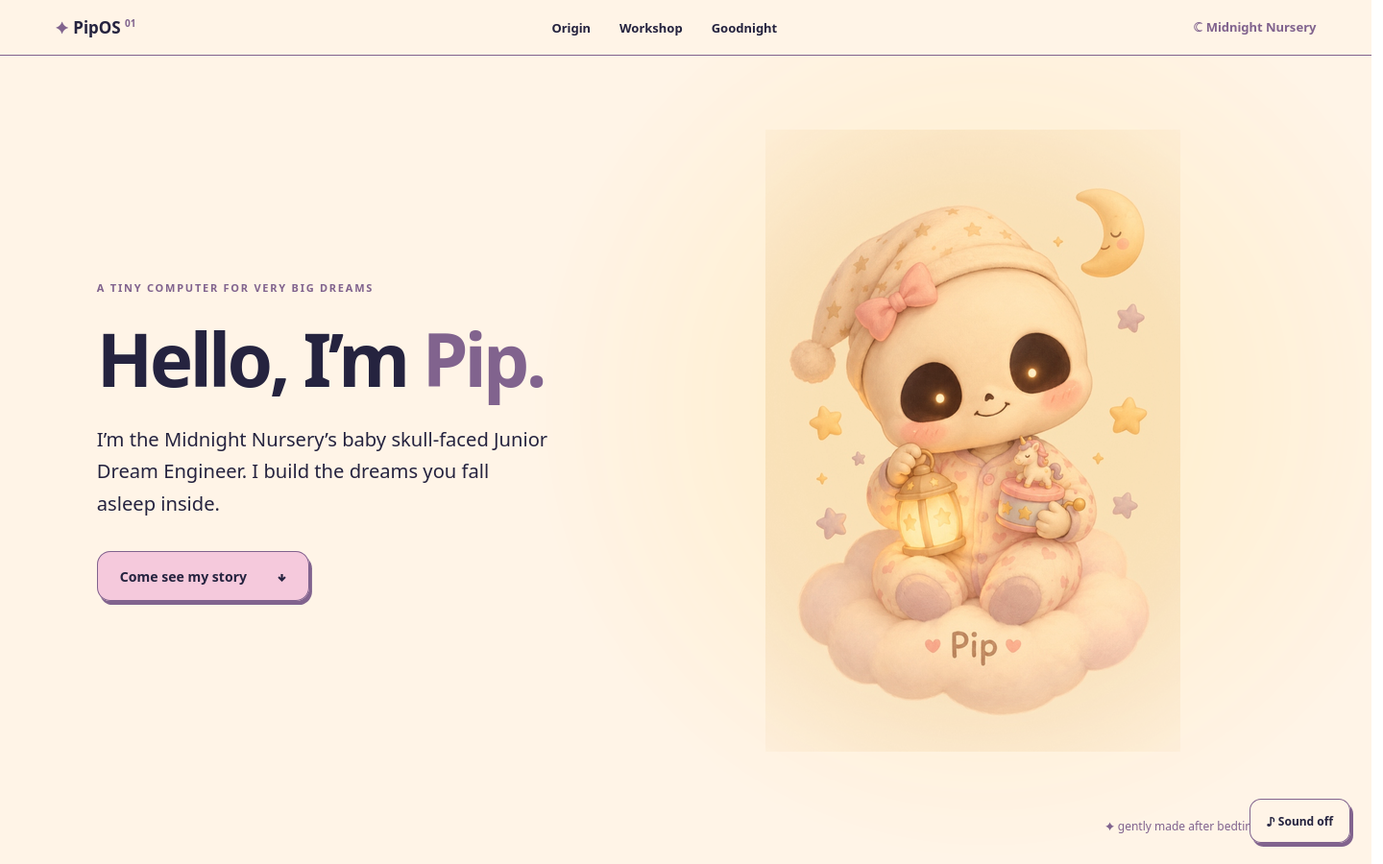
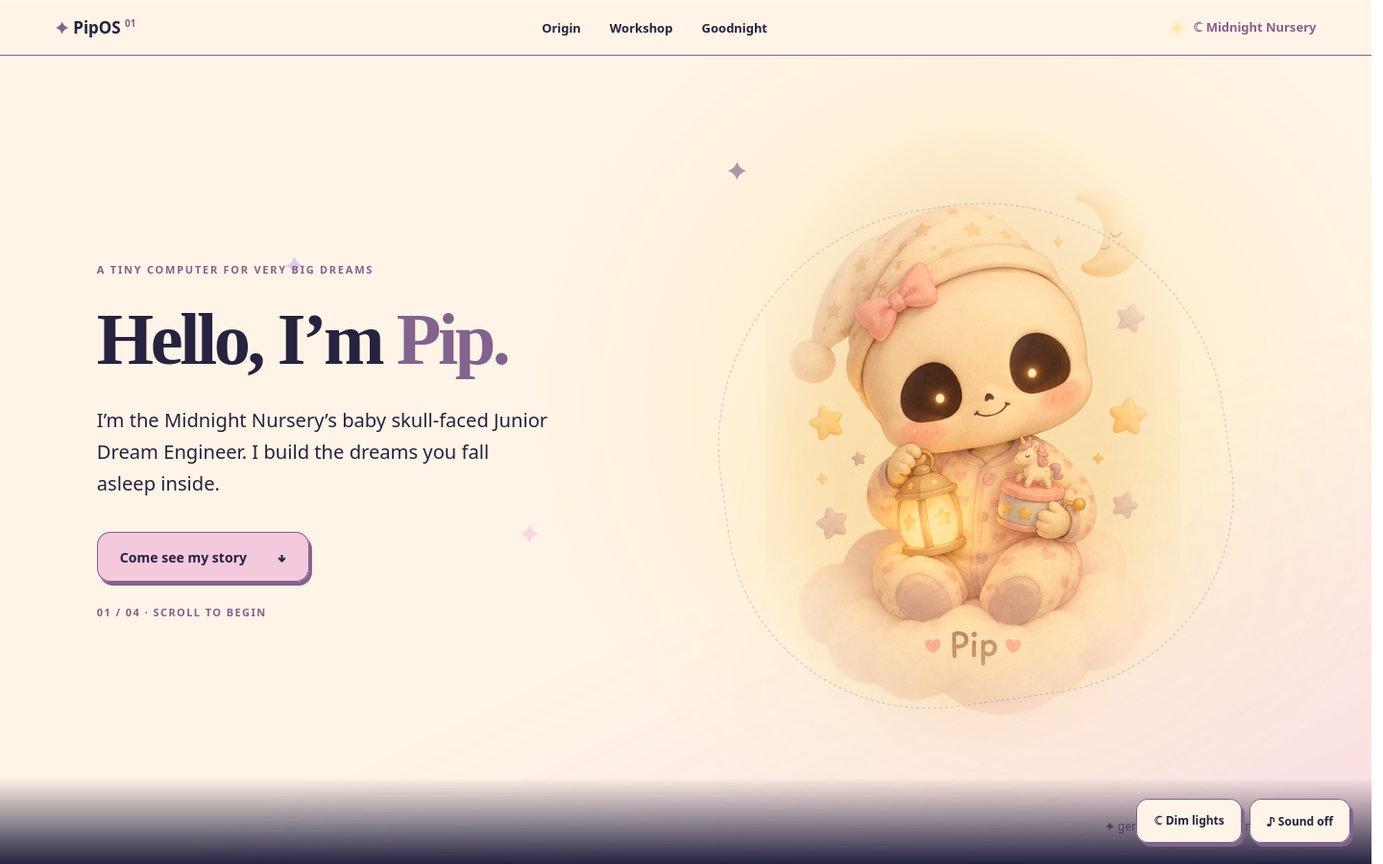
feat: polish PipOS stage 1 story shell

diff --git a/src/App.css b/src/App.css
@@ -1,5 +1,15 @@
 .pip-os { color: var(--ink); background: var(--cream); overflow: clip; }
-.menu-bar { height: 58px; padding: 0 clamp(20px, 4vw, 72px); display: flex; align-items: center; gap: 32px; border-bottom: 1px solid var(--plum); background: var(--cream); position: relative; z-index: 2; font-size: 13px; font-weight: 650; }
+.pip-os--night { --ink: var(--cream); --surface: var(--midnight); }
+.pip-os--night .menu-bar { color: var(--cream); background: var(--midnight); border-color: var(--lavender); }
+.pip-os--night .menu-clock { color: var(--lavender); }
+.pip-os--night .hero-scene { background: radial-gradient(circle at 72% 47%, #ffe5a02b, transparent 43%), linear-gradient(150deg, var(--midnight), #514466); }
+.pip-os--night .hero-copy .eyebrow, .pip-os--night .hero-copy em, .pip-os--night .hero-note { color: var(--starlight); }
+.pip-os--night .workshop-scene { background: radial-gradient(circle at 83% 8%, #ffe5a023, transparent 43%), linear-gradient(var(--midnight), #514466); }
+.pip-os--night .workshop-scene .section-heading .eyebrow { color: var(--starlight); }
+.pip-os--night .workshop-desk { background: #fff4e713; border-color: var(--lavender); }
+.pip-os--night .window, .pip-os--night .dock-button, .pip-os--night .window-close { color: var(--midnight); }
+.pip-os--night .hero-scroll-note { color: var(--starlight); }
+.menu-bar { height: 58px; padding: 0 clamp(20px, 4vw, 72px); display: flex; align-items: center; gap: 32px; border-bottom: 1px solid var(--plum); background: var(--cream); position: relative; z-index: 2; font-size: 13px; font-weight: 650; box-shadow: 0 3px 0 #fff8ed66 inset; }
 .menu-bar a { text-decoration: none; }
 .menu-bar nav { display: flex; gap: 30px; margin: 0 auto; }
 .menu-bar a:hover, .credits a:hover { text-decoration: underline; }
@@ -7,61 +17,74 @@
 .brand > span:first-child { color: var(--plum); }
 .brand-version { color: var(--plum); font-size: 10px; vertical-align: top; }
 .menu-clock { color: var(--plum); white-space: nowrap; }
+.clock-light { display: inline-block; width: 7px; height: 7px; margin-right: 10px; border-radius: 50%; background: var(--starlight); box-shadow: 0 0 0 3px #ffe5a044, 0 0 12px var(--starlight); }
 .eyebrow { display: block; font-size: 11px; font-weight: 750; letter-spacing: .16em; text-transform: uppercase; }
 h1, h2, h3, p { margin: 0; }
-h1, h2, h3 { letter-spacing: -.045em; line-height: 1.1; }
+h1, h2, h3 { font-family: var(--display-font); font-weight: 700; letter-spacing: -.045em; line-height: 1.08; }
 h1 { font-size: clamp(44px, 5.3vw, 83px); font-weight: 780; }
 h2 { font-size: clamp(34px, 4vw, 62px); }
 h3 { font-size: clamp(25px, 2.9vw, 39px); }
 p { line-height: 1.65; }
-.hero-scene { min-height: min(850px, calc(100svh - 58px)); display: grid; grid-template-columns: minmax(0, 1fr) minmax(0, 1.05fr); align-items: center; position: relative; padding: 48px max(7vw, calc((100vw - 1320px) / 2)) 88px; background: radial-gradient(circle at 72% 43%, #ffe5a055 0 15%, transparent 42%), var(--cream); }
+.hero-scene { min-height: min(850px, calc(100svh - 58px)); display: grid; grid-template-columns: minmax(0, 1fr) minmax(0, 1.05fr); align-items: center; position: relative; isolation: isolate; padding: 48px max(7vw, calc((100vw - 1320px) / 2)) 88px; background: radial-gradient(circle at 72% 43%, #ffe5a055 0 15%, transparent 42%), linear-gradient(155deg, var(--cream) 60%, #f5c9dc88); }
+.hero-scene::before, .origin-story::before, .workshop-scene::before, .goodnight-scene::before { content: '✦'; position: absolute; pointer-events: none; color: var(--starlight); font-size: 26px; text-shadow: -32vw 11vh 0 #c9b6e7, 22vw 23vh 0 #ffe5a0, -15vw 42vh 0 #f5c9dc; }
+.hero-scene::before { top: 12%; left: 53%; color: var(--plum); opacity: .65; }
+.hero-scene::after { content: ''; position: absolute; inset: auto 0 0; height: 90px; background: linear-gradient(transparent, var(--midnight)); pointer-events: none; }
 .hero-copy { position: relative; z-index: 1; max-width: 575px; }
 .hero-copy .eyebrow { color: var(--plum); margin-bottom: 24px; }
 .hero-copy em { color: var(--plum); font-style: normal; }
 .hero-copy p { max-width: 470px; margin: 26px 0 34px; font-size: clamp(17px, 1.4vw, 21px); }
-.hero-portrait { width: min(100%, 575px); justify-self: center; align-self: center; }
-.hero-portrait img { display: block; width: 100%; height: min(72svh, 660px); object-fit: contain; mix-blend-mode: multiply; mask-image: radial-gradient(ellipse 72% 72% at center, #000 55%, transparent 100%); }
-.primary-link { display: inline-flex; align-items: center; gap: 32px; min-height: 52px; padding: 0 23px; border-radius: 14px; border: 1px solid var(--plum); box-shadow: 3px 4px 0 var(--plum); background: var(--blush); font-size: 14px; font-weight: 750; text-decoration: none; }
+.hero-portrait { width: min(100%, 575px); justify-self: center; align-self: center; position: relative; }
+.hero-portrait::before { content: ''; position: absolute; inset: 12% 4% 8%; border: 1px dashed #81638e55; border-radius: 48% 48% 40% 40%; transform: rotate(-8deg); background: radial-gradient(circle at 50% 65%, #ffe5a077, transparent 68%); }
+.hero-portrait img { display: block; position: relative; width: 100%; height: min(72svh, 660px); object-fit: contain; mix-blend-mode: multiply; mask-image: radial-gradient(ellipse 43% 54% at center, #000 56%, transparent 100%); }
+.primary-link { display: inline-flex; align-items: center; gap: 32px; min-height: 52px; padding: 0 23px; border-radius: 14px; border: 1px solid var(--plum); box-shadow: 3px 4px 0 var(--plum); background: var(--blush); color: var(--midnight); font-size: 14px; font-weight: 750; text-decoration: none; }
 .primary-link:hover { transform: translateY(-2px); }
+.hero-scroll-note { display: block; margin-top: 24px; color: var(--plum); font-size: 11px; font-weight: 700; letter-spacing: .13em; text-transform: uppercase; }
 .hero-note { position: absolute; bottom: 30px; right: 7vw; font-size: 12px; color: var(--plum); }
 .section-heading { max-width: 760px; text-align: center; margin: 0 auto 74px; }
 .section-heading .eyebrow { color: var(--plum); margin-bottom: 20px; }
 .section-heading p { font-size: 17px; margin-top: 16px; }
-.origin-story { padding: 115px 6vw 120px; color: var(--cream); background: radial-gradient(circle at 50% 47%, #81638e44, transparent 48%), var(--midnight); }
+.origin-story { position: relative; isolation: isolate; padding: 115px 6vw 120px; color: var(--cream); background: radial-gradient(circle at 50% 47%, #81638e44, transparent 48%), var(--midnight); }
+.origin-story::before { top: 15%; left: 79%; opacity: .7; }
 .origin-story .section-heading .eyebrow { color: var(--starlight); }
 .origin-beats { max-width: 1070px; margin: auto; }
 .story-beat { display: grid; grid-template-columns: 1fr 1fr; gap: clamp(24px, 7vw, 120px); align-items: center; min-height: 440px; }
 .story-beat + .story-beat { border-top: 1px solid #fff4e733; }
 .story-beat:nth-child(even) .story-art { order: 2; }
-.story-art { height: 330px; border: 1px solid #c9b6e75c; border-radius: 38px; display: flex; align-items: center; justify-content: center; color: var(--starlight); background: radial-gradient(circle, #ffe5a03d, transparent 52%), #81638e1f; box-shadow: inset 0 0 30px #c9b6e71a; }
-.story-art--star span { font-size: 95px; opacity: .52; }
+.story-art { height: 330px; position: relative; border: 1px solid #c9b6e75c; border-radius: 38px; display: flex; align-items: center; justify-content: center; color: var(--starlight); background: radial-gradient(circle, #ffe5a03d, transparent 52%), #81638e1f; box-shadow: inset 0 0 30px #c9b6e71a, 0 22px 50px #17162d22; overflow: hidden; }
+.story-art::before { content: ''; position: absolute; inset: 15px; border: 1px solid #c9b6e72a; border-radius: 28px; pointer-events: none; }
+.story-art--star > span:last-child { font-size: 95px; opacity: .52; filter: drop-shadow(0 0 20px var(--starlight)); }
+.story-orbit { position: absolute; inset: auto auto 25%; color: var(--lavender); font-size: 25px; letter-spacing: 1.5em; white-space: nowrap; }
 .story-art--lantern { flex-direction: column; }
-.story-art--lantern > span:first-child { font-size: 140px; text-shadow: 0 0 48px var(--starlight); }
-.lantern-handle { font-size: 58px; line-height: 0; }
-.story-art--sky { gap: 9px; font-size: 43px; text-shadow: 0 0 28px var(--starlight); }
-.story-art--sky span:nth-child(even) { transform: translateY(-60px); font-size: 24px; color: var(--lavender); }
-.story-art--sky span:nth-child(3) { transform: translateY(57px); font-size: 64px; }
+.lantern-handle { display: block; height: 46px; font-size: 72px; line-height: .6; color: var(--lavender); }
+.lantern-glass { width: 115px; height: 133px; display: grid; place-items: center; border: 5px solid var(--lavender); border-radius: 31px 31px 42px 42px; background: radial-gradient(circle, #ffe5a0c9, #ffe5a040 45%, transparent 75%); box-shadow: 0 0 65px #ffe5a080, inset 0 0 25px #ffe5a080; font-size: 64px; }
+.lantern-foot { width: 130px; height: 13px; border-radius: 10px; background: var(--lavender); }
+.story-art--sky svg { width: min(90%, 400px); height: 80%; color: var(--lavender); filter: drop-shadow(0 0 12px var(--starlight)); }
+.story-art--sky span { position: absolute; left: 49%; top: 42%; font-size: 46px; text-shadow: 0 0 24px var(--starlight); }
 .story-copy .eyebrow { color: var(--starlight); margin-bottom: 17px; }
 .story-copy p { max-width: 390px; margin-top: 20px; color: var(--cream); opacity: .82; font-size: 17px; }
-.workshop-scene { min-height: 850px; padding: 110px 5vw 125px; background: radial-gradient(circle at 15% 18%, #f5c9dc66, transparent 45%), linear-gradient(var(--cream), #c9b6e788); }
+.workshop-scene { position: relative; isolation: isolate; min-height: 850px; padding: 110px 5vw 125px; background: radial-gradient(circle at 15% 18%, #f5c9dc66, transparent 45%), linear-gradient(var(--cream), #c9b6e788); }
+.workshop-scene::before { top: 8%; left: 88%; color: var(--plum); opacity: .5; }
+.workshop-scene::after { content: ''; position: absolute; inset: auto 0 0; height: 85px; background: linear-gradient(transparent, var(--midnight)); pointer-events: none; }
 .workshop-desk { max-width: 1060px; margin: auto; padding: 50px; border: 1px solid var(--plum); border-radius: 34px; background: #fff4e799; box-shadow: var(--soft-shadow); }
-.window { border: 1px solid var(--plum); border-radius: 15px; background: var(--cream); box-shadow: 5px 6px 0 #81638e3b; overflow: hidden; }
+.window { border: 1px solid var(--plum); border-radius: 15px; background: var(--cream); box-shadow: 5px 6px 0 #81638e3b, inset 0 1px 0 #ffffff; overflow: hidden; }
 .window-bar { min-height: 39px; display: flex; align-items: center; gap: 13px; padding: 6px 14px; border-bottom: 1px solid var(--plum); background: var(--lavender); font-size: 12px; font-weight: 700; letter-spacing: .04em; }
 .window-lights { display: flex; gap: 5px; }
 .window-lights i { width: 9px; height: 9px; border: 1px solid var(--plum); border-radius: 50%; background: var(--blush); }
 .window-lights i:nth-child(2) { background: var(--starlight); }
 .window-lights i:nth-child(3) { background: var(--cream); }
+.window-bar-end { margin-left: auto; color: var(--plum); font-size: 10px; white-space: nowrap; }
 .window-body { padding: 25px; }
-.workshop-intro { max-width: 620px; margin: auto; }
+.workshop-intro { max-width: 620px; margin: auto; transform: rotate(-1deg); }
 .workshop-intro .window-body { text-align: center; padding: 25px 40px 30px; }
 .desk-star { display: block; font-size: 48px; color: var(--plum); line-height: 1.15; }
 .desk-signature { display: block; margin-top: 10px; color: var(--plum); font-size: 14px; }
 .dock { display: flex; justify-content: center; align-items: stretch; gap: 18px; margin: 43px auto 0; }
-.dock-button { width: 205px; min-height: 138px; padding: 17px 14px; display: grid; justify-items: center; align-content: center; gap: 9px; border: 1px solid var(--plum); border-radius: 18px; background: var(--cream); color: var(--ink); box-shadow: 3px 4px 0 var(--plum); font-size: 13px; font-weight: 750; }
+.dock-button { width: 205px; min-height: 138px; padding: 17px 14px; display: grid; justify-items: center; align-content: center; gap: 7px; border: 1px solid var(--plum); border-radius: 18px; background: var(--cream); color: var(--ink); box-shadow: 3px 4px 0 var(--plum); font-size: 13px; font-weight: 750; transition: transform .35s var(--ease-dream), background .35s var(--ease-dream); }
 .dock-button:hover, .dock-button--active { background: var(--blush); transform: translateY(-3px); }
 .dock-icon { width: 55px; height: 55px; border-radius: 15px; display: grid; place-items: center; background: var(--lavender); color: var(--midnight); font-size: 30px; }
 .dock-button:nth-child(2) .dock-icon { background: var(--starlight); }
 .dock-button:nth-child(3) .dock-icon { background: var(--blush); }
+.dock-caption { color: var(--plum); font-size: 10px; font-weight: 600; }
 .project-window { max-width: 760px; margin: 45px auto 0; }
 .project-window:focus { outline: none; }
 .project-window:focus-visible { outline: 3px solid var(--plum); }
@@ -69,32 +92,36 @@ p { line-height: 1.65; }
 .project-window .window-bar > span:nth-child(2) { margin-right: auto; }
 .window-close { min-width: 31px; min-height: 30px; border: 1px solid var(--plum); border-radius: 8px; background: var(--cream); color: var(--ink); font-size: 20px; line-height: 1; }
 .project-preview { min-height: 235px; display: grid; grid-template-columns: 180px 1fr; gap: 25px; align-items: center; }
-.project-preview-art { height: 170px; border-radius: 25px; display: grid; place-items: center; background: var(--lavender); font-size: 86px; color: var(--plum); }
+.project-preview-art { height: 170px; border: 1px solid var(--plum); border-radius: 25px; display: grid; place-items: center; background: radial-gradient(circle, var(--starlight), var(--lavender) 70%); box-shadow: inset 0 0 0 8px #fff4e755; font-size: 86px; color: var(--plum); }
 .project-preview--nightlight .project-preview-art { background: var(--starlight); }
 .project-preview--delivery .project-preview-art { background: var(--blush); }
 .project-preview .eyebrow { color: var(--plum); margin-bottom: 10px; }
 .project-preview h3 { font-size: 30px; margin-bottom: 10px; }
 .project-status { color: var(--plum); font-size: 12px; margin-top: 15px; }
-.goodnight-scene { min-height: 780px; padding: 110px 20px 55px; text-align: center; color: var(--cream); background: radial-gradient(circle at 50% 49%, #81638e73, transparent 40%), var(--midnight); }
+.goodnight-scene { position: relative; isolation: isolate; min-height: 780px; padding: 110px 20px 55px; text-align: center; color: var(--cream); background: radial-gradient(circle at 50% 49%, #81638e73, transparent 40%), var(--midnight); }
+.goodnight-scene::before { top: 17%; left: 27%; opacity: .6; }
 .goodnight-stars { margin-bottom: 90px; color: var(--starlight); letter-spacing: 1.3em; }
 .goodnight-scene .eyebrow { margin-bottom: 20px; color: var(--starlight); }
 .goodnight-scene > p { max-width: 510px; margin: 22px auto 0; }
-.moon-button { display: block; width: 100px; height: 100px; margin: 55px auto 4px; border: 1px solid var(--starlight); border-radius: 50%; color: var(--starlight); background: #ffe5a015; font-size: 66px; line-height: 1; box-shadow: 0 0 45px #ffe5a044; }
+.moon-button { display: block; width: 128px; height: 128px; margin: 55px auto 10px; border: 1px solid var(--starlight); border-radius: 50%; color: var(--starlight); background: radial-gradient(circle at 40% 35%, #ffe5a04d, #ffe5a015 70%); font-size: 82px; line-height: 1; box-shadow: 0 0 45px #ffe5a044, 0 0 0 12px #ffe5a00b; transition: transform .5s var(--ease-dream); }
 .moon-button:hover { transform: rotate(-10deg); }
 .moon-hint { font-size: 12px; color: var(--lavender); }
-.secret-note { max-width: 440px; padding: 15px; border: 1px solid var(--lavender); border-radius: 15px; background: var(--midnight); }
+.secret-note { max-width: 440px; margin: 18px auto 0 !important; padding: 20px; border: 1px solid var(--lavender); border-radius: 15px; background: var(--midnight); box-shadow: 0 0 40px #ffe5a022; }
+.secret-note[hidden] { display: none; }
 .credits { margin: 92px auto 0; max-width: 820px; color: var(--lavender); font-size: 11px; line-height: 2; }
-.sound-toggle { position: fixed; z-index: 5; bottom: 22px; right: 22px; min-height: 46px; padding: 0 17px; border: 1px solid var(--plum); border-radius: 12px; color: var(--midnight); background: var(--cream); box-shadow: 3px 4px 0 var(--plum); font-size: 12px; font-weight: 750; }
+.shell-controls { position: fixed; z-index: 5; bottom: 22px; right: 22px; display: flex; gap: 8px; }
+.sound-toggle, .mood-toggle { min-height: 46px; padding: 0 17px; border: 1px solid var(--plum); border-radius: 12px; color: var(--midnight); background: var(--cream); box-shadow: 3px 4px 0 var(--plum); font-size: 12px; font-weight: 750; }
+.sound-toggle:hover, .mood-toggle:hover { background: var(--blush); }
 @media (max-width: 800px) {
   .menu-bar { height: 54px; padding: 0 18px; justify-content: space-between; }
   .menu-bar nav { margin: 0; gap: 14px; }
   .menu-clock { display: none; }
-  .hero-scene { min-height: auto; grid-template-columns: 1fr; padding: 48px 22px 76px; text-align: center; }
+  .hero-scene { min-height: auto; grid-template-columns: 1fr; padding: 40px 22px 62px; text-align: center; }
   .hero-copy { justify-self: center; }
   .hero-copy .eyebrow { margin-bottom: 15px; }
   .hero-copy p { margin: 18px auto 22px; }
   .hero-portrait { max-width: 390px; margin-top: 18px; }
-  .hero-portrait img { height: min(46svh, 400px); }
+  .hero-portrait img { height: min(36svh, 320px); }
   .hero-note { bottom: 26px; right: 0; left: 0; }
   .origin-story { padding: 85px 22px; }
   .section-heading { margin-bottom: 45px; }
@@ -114,8 +141,10 @@ p { line-height: 1.65; }
   .hero-copy p, .section-heading p, .story-copy p { font-size: 15px; }
   .dock { position: fixed; z-index: 4; bottom: 0; left: 0; right: 0; margin: 0; padding: 9px 10px max(10px, env(safe-area-inset-bottom)); gap: 7px; border-top: 1px solid var(--plum); background: var(--cream); }
   .dock-button { width: auto; flex: 1; min-width: 0; min-height: 62px; padding: 5px 3px; gap: 2px; border: 0; box-shadow: none; font-size: 10px; line-height: 1.2; }
+  .dock-caption { display: none; }
   .dock-icon { width: 31px; height: 31px; border-radius: 10px; font-size: 20px; }
-  .sound-toggle { bottom: 89px; right: 11px; min-height: 41px; padding: 0 11px; }
+  .shell-controls { bottom: 89px; right: 11px; }
+  .sound-toggle, .mood-toggle { min-height: 41px; padding: 0 11px; }
   .workshop-intro .window-body { padding: 20px; }
   .project-window { margin-top: 30px; }
   .project-preview { grid-template-columns: 1fr; gap: 17px; text-align: center; }
@@ -123,4 +152,22 @@ p { line-height: 1.65; }
   .project-preview h3 { font-size: 26px; }
   .goodnight-stars { margin-bottom: 70px; }
   .credits { margin-top: 65px; }
+}
+@media (max-width: 360px) {
+  .menu-bar { padding: 0 10px; }
+  .menu-bar nav { gap: 8px; }
+  .hero-scene { padding-inline: 16px; }
+  .window-bar-end { display: none; }
+  .dock-button { font-size: 9px; }
+}
+@supports (animation-timeline: view()) {
+  .origin-story .section-heading, .story-beat, .workshop-scene .section-heading, .goodnight-scene > h2 {
+    animation: settle-in linear both;
+    animation-timeline: view();
+    animation-range: entry 0% entry 35%;
+  }
+  @keyframes settle-in { from { opacity: .65; transform: translateY(14px); } to { opacity: 1; transform: none; } }
+}
+@media (prefers-reduced-motion: reduce) {
+  .origin-story .section-heading, .story-beat, .workshop-scene .section-heading, .goodnight-scene > h2 { animation: none; }
 }

diff --git a/src/App.tsx b/src/App.tsx
@@ -9,7 +9,7 @@ import './App.css'
 
 function App() {
   const [activeProject, setActiveProject] = useState<Project | null>(null)
-  const [mood] = useState<Mood>('day')
+  const [mood, setMood] = useState<Mood>('day')
   const [muted, setMuted] = useState(true)
   const [secretOpen, setSecretOpen] = useState(false)
   const project = projects.find(({ id }) => id === activeProject)
@@ -29,7 +29,7 @@ function App() {
     setActiveProject(id)
     requestAnimationFrame(() => {
       document.getElementById('project-panel')?.focus()
-      document.getElementById('project-panel')?.scrollIntoView({ behavior: 'smooth', block: 'center' })
+      document.getElementById('project-panel')?.scrollIntoView({ behavior: window.matchMedia('(prefers-reduced-motion: reduce)').matches ? 'instant' : 'smooth', block: 'center' })
     })
   }
 
@@ -47,8 +47,10 @@ function App() {
           <h1 id="welcome-title">Hello, I’m <em>Pip.</em></h1>
           <p>I’m the Midnight Nursery’s baby skull-faced Junior Dream Engineer. I build the dreams you fall asleep inside.</p>
           <a className="primary-link" href="#origin">Come see my story <span aria-hidden="true">↓</span></a>
+          <span className="hero-scroll-note">01 / 04 · scroll to begin</span>
         </div>
         <div className="hero-portrait" data-final-asset={assets.pipHero}>
+          {/* PipCharacter integration: replace this official portrait, not the surrounding composition. */}
           <img src={pipPortrait} width="682" height="1024" alt="Pip, a smiling baby with a skull face and starry sleeping cap, holding a glowing lantern" />
         </div>
         <span className="hero-note" aria-hidden="true">✦ gently made after bedtime ✦</span>
@@ -64,27 +66,33 @@ function App() {
         </div>
         <div className="workshop-desk">
           <div className="workshop-intro window">
-            <div className="window-bar"><span className="window-lights" aria-hidden="true"><i /><i /><i /></span> a note from pip.txt</div>
+            <div className="window-bar"><span className="window-lights" aria-hidden="true"><i /><i /><i /></span><span>a note from pip.txt</span><span className="window-bar-end">✦</span></div>
             <div className="window-body"><span className="desk-star" aria-hidden="true">✦</span><p>Some nights need a song. Some need a little light. And some just need a dream delivered right to the door.</p><span className="desk-signature">— Pip ☾</span></div>
           </div>
           <DesktopDock activeProject={activeProject} onOpenProject={openProject} />
           <ProjectWindow title={project?.title ?? ''} open={project !== undefined} onClose={closeProject}>
+            {/* LullabyLab / NightlightLab / DreamDelivery integration: swap only this preview. */}
             <div className={`project-preview project-preview--${activeProject}`} data-final-asset={activeProject === 'lullaby' ? assets.musicbox : activeProject === 'nightlight' ? assets.nightlightRoom : assets.dreamMap}>
               <span className="project-preview-art" aria-hidden="true">{activeProject === 'lullaby' ? '♫' : activeProject === 'nightlight' ? '✧' : '✉'}</span>
-              <div><span className="eyebrow">From Pip’s desk</span><h3>{project?.title}</h3><p>{project?.description}</p><p className="project-status">The interactive project is being prepared for its window.</p></div>
+              <div><span className="eyebrow">From Pip’s desk · {activeProject === 'lullaby' ? '01' : activeProject === 'nightlight' ? '02' : '03'}</span><h3>{project?.title}</h3><p>{project?.description}</p><p className="project-status">Pip is putting the finishing touches on this little wonder. ✦</p></div>
             </div>
           </ProjectWindow>
         </div>
       </section>
 
       <Goodnight>
+        {/* MoonSecret integration: this discoverable in-flow note is the temporary stand-in. */}
         <button className="moon-button" type="button" onClick={() => setSecretOpen(!secretOpen)} aria-expanded={secretOpen} aria-controls="secret-dream" aria-label="Look behind the moon">☾</button>
         <span className="moon-hint">Psst… have you looked behind the moon?</span>
-        <p id="secret-dream" className="secret-note" hidden={!secretOpen}>A little secret dream is tucked behind this moon. Come back when it’s ready to glow. ✦</p>
+        <p id="secret-dream" className="secret-note" hidden={!secretOpen}>✦ Dear dreamer, the first star I ever fixed is yours to keep. If tonight feels dark, remember: even a tiny light can find its way home. — Pip</p>
         <footer className="credits">Made for <a href="https://hax.baby/" target="_blank" rel="noreferrer">haX.baby</a> · Pip portrait: <a href="https://hax.baby/baby/assets/pip_portrait.png" target="_blank" rel="noreferrer">official haX.baby character art</a> · Interface built with React, Vite &amp; CSS · <a href="#welcome">Back to top ↑</a></footer>
       </Goodnight>
 
-      <button className="sound-toggle" type="button" onClick={() => setMuted(!muted)} aria-pressed={!muted} aria-label={muted ? 'Enable sound' : 'Mute sound'}>{muted ? '♪ Sound off' : '♫ Sound on'}</button>
+      <div className="shell-controls" aria-label="PipOS settings">
+        {/* MoodSwitch / AudioToggle integration: App remains the owner of both states. */}
+        <button className="mood-toggle" type="button" onClick={() => setMood(mood === 'day' ? 'night' : 'day')} aria-pressed={mood === 'night'} aria-label={mood === 'day' ? 'Dim the nursery' : 'Brighten the nursery'}>{mood === 'day' ? '☾ Dim lights' : '✦ Lights on'}</button>
+        <button className="sound-toggle" type="button" onClick={() => setMuted(!muted)} aria-pressed={!muted} aria-label={muted ? 'Enable sound' : 'Mute sound'} title="Sound will be available when the interactive projects arrive">{muted ? '♪ Sound off' : '♫ Sound on'}</button>
+      </div>
     </DesktopShell>
   )
 }

diff --git a/src/components/story/index.tsx b/src/components/story/index.tsx
@@ -10,15 +10,15 @@ export function OriginStory() {
       </div>
       <div className="origin-beats">
         <article className="story-beat">
-          <div className="story-art story-art--star" aria-hidden="true"><span>✦</span></div>
+          <div className="story-art story-art--star" aria-hidden="true"><span className="story-orbit">· · ✧ · ·</span><span>✦</span></div>
           <div className="story-copy"><span className="eyebrow">01 · the first star</span><h3>It was a little too dark.</h3><p>One night, I found a star that had forgotten how to shine.</p></div>
         </article>
         <article className="story-beat">
-          <div className="story-art story-art--lantern" aria-hidden="true"><span>✧</span><span className="lantern-handle">⌒</span></div>
+          <div className="story-art story-art--lantern" aria-hidden="true"><span className="lantern-handle">⌒</span><span className="lantern-glass">✦</span><span className="lantern-foot" /></div>
           <div className="story-copy"><span className="eyebrow">02 · the first light</span><h3>So I made a light.</h3><p>Small enough to hold. Warm enough to make the dark feel kind.</p></div>
         </article>
         <article className="story-beat">
-          <div className="story-art story-art--sky" aria-hidden="true"><span>✦</span><span>✧</span><span>✦</span><span>✧</span><span>✦</span></div>
+          <div className="story-art story-art--sky" aria-hidden="true"><svg viewBox="0 0 400 240" fill="none" preserveAspectRatio="xMidYMid meet"><path d="M50 145 127 67 201 135 281 48 355 157 201 135 127 67" stroke="currentColor" strokeWidth="1.5" strokeDasharray="3 8"/><g fill="currentColor"><circle cx="50" cy="145" r="5"/><circle cx="127" cy="67" r="7"/><circle cx="201" cy="135" r="10"/><circle cx="281" cy="48" r="5"/><circle cx="355" cy="157" r="7"/></g></svg><span>✦</span></div>
           <div className="story-copy"><span className="eyebrow">03 · the nursery</span><h3>Then the sky joined in.</h3><p>Now I help the Midnight Nursery find its way into dreams, one star at a time.</p></div>
         </article>
       </div>

diff --git a/src/components/shell/index.tsx b/src/components/shell/index.tsx
@@ -14,7 +14,7 @@ export function DesktopShell({ mood, children }: ShellProps) {
           <a href="#workshop">Workshop</a>
           <a href="#goodnight">Goodnight</a>
         </nav>
-        <span className="menu-clock" aria-hidden="true">☾ Midnight Nursery</span>
+        <span className="menu-clock" aria-hidden="true"><span className="clock-light" /> ☾ Midnight Nursery</span>
       </header>
       <main>{children}</main>
     </div>
@@ -39,6 +39,7 @@ export function DesktopDock({ activeProject, onOpenProject }: {
         >
           <span className="dock-icon" aria-hidden="true">{id === 'lullaby' ? '♫' : id === 'nightlight' ? '✧' : '✉'}</span>
           <span>{title}</span>
+          <span className="dock-caption" aria-hidden="true">open window ↗</span>
         </button>
       ))}
     </nav>
@@ -57,6 +58,7 @@ export function ProjectWindow({ title, open, onClose, children }: {
       <div className="window-bar">
         <span className="window-lights" aria-hidden="true"><i /><i /><i /></span>
         <span>{title}</span>
+        <span className="window-bar-end" aria-hidden="true">pip://workshop</span>
         <button type="button" className="window-close" onClick={onClose} aria-label={`Close ${title}`}>×</button>
       </div>
       <div className="window-body">{children}</div>

diff --git a/src/styles/tokens.css b/src/styles/tokens.css
@@ -10,4 +10,6 @@
   --line: var(--plum);
   --soft-shadow: 0 16px 42px #25233f18;
   --font: system-ui, sans-serif;
+  --display-font: Georgia, 'Times New Roman', serif;
+  --ease-dream: cubic-bezier(.22, 1, .36, 1);
 }
